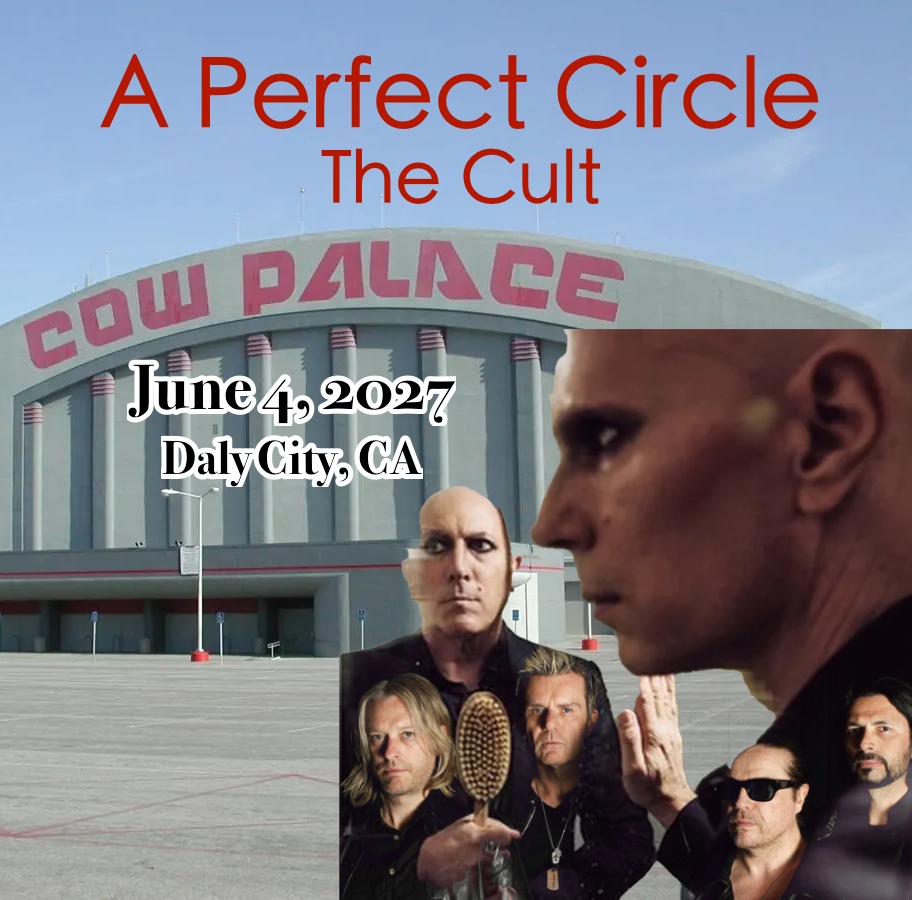
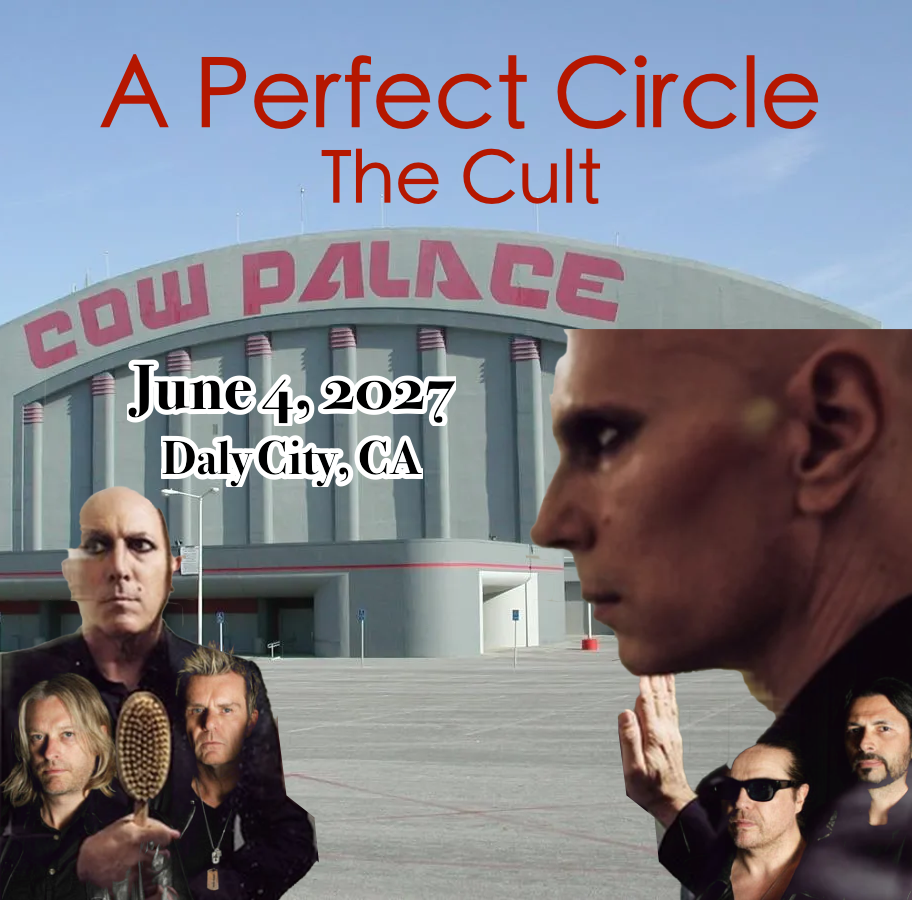
fix bug for artists on multiple cards not filtering

Changed region(s): [[0.0, 0.5289, 0.7368, 1.0]]

diff --git a/sandbox/setlists/styles/index.css b/sandbox/setlists/styles/index.css
@@ -74,7 +74,7 @@ main {
   position: absolute;
   inset-block-end: 0;
   inset-inline-start: 0;
-  padding-inline-start: 16px; /* @todo: gutter variable? */
+  padding-inline-start: var(--gutter);
   line-height: 30px;
   width: 100%;
   background: rgba(0, 0, 0, 0.5);
@@ -93,28 +93,6 @@ main {
   font-family: sans-serif;
   overflow: hidden;
   transform: rotateY(180deg);
-}
-
-.card__artists {
-  display: flex;
-  flex-wrap: wrap;
-  column-gap: 16px;
-  row-gap: 32px;
-  margin: 0;
-  padding: 0;
-  list-style: none;
-
-  .card__artist {
-
-    label {
-      padding: 6px 12px;
-      border-radius: 999px;
-      background-color: rgba(128, 128, 128, 0.5);
-      border: 2px solid rgb(128, 128, 128);
-      white-space: nowrap;
-      cursor: pointer;
-    }
-  }
 }
 
 .card__toggle:checked {
@@ -160,10 +138,49 @@ main {
   pointer-events: auto;
 }
 
-.card__side--back:has(.card__artistToggle:checked) .card__setData {
-  display: none;
+.card__artists {
+  display: flex;
+  flex-wrap: wrap;
+  column-gap: var(--gutter);
+  row-gap: calc(var(--gutter) * 2);
+  margin: 0;
+  padding: 0;
+  list-style: none;
+
+  .card__artist {
+    label {
+      padding: 6px 12px;
+      border-radius: 999px;
+      background-color: var(--bg-accent);
+      border: 2px solid var(--fg-accent);
+      white-space: nowrap;
+      cursor: pointer;
+      box-sizing: border-box;
+    }
+  }
 }
 
-.card__side--back:has(.card__artistToggle:checked) .card__artistToggle:checked + .card__setData {
+.card__set {
   display: block;
+  opacity: 1;
+  transition: opacity 0.3s, display 0.3s allow-discrete;
+
+  @starting-style {
+    opacity: 0;
+  }
+
+  .card__side--back:has(.card__artistToggle:checked) & {
+    display: none;
+    opacity: 0;
+  }
+
+  .card__side--back:has(.card__artistToggle:checked) .card__artistToggle:checked + & {
+    display: block;
+    opacity: 1;
+    transition-duration: 0.75s;
+
+    @starting-style {
+      opacity: 0;
+    }
+  }
 }

diff --git a/sandbox/setlists/scripts/index.js b/sandbox/setlists/scripts/index.js
@@ -37,15 +37,15 @@ const generateCard = (setlistData, idx) => {
         <ul class="card__artists">
           ${setlistData.sets.map(({ artist }) => (
             `<li class="card__artist">
-              <label for="input-${artist.replace(/ /g, "")}">
+              <label for="card-${idx}--input-${artist.replace(/ /g, "")}">
                 ${artist}
               </label>
             </li>`
           )).join("")}
         </ul>
         ${setlistData.sets.map((set) => (
-          `<input class="card__artistToggle" id="input-${set.artist.replace(/ /g, "")}" type="checkbox" name="artist" value="${set.artist.replace(/ /g, "")}" hidden>
-          <div class="card__setData">
+          `<input class="card__artistToggle" id="card-${idx}--input-${set.artist.replace(/ /g, "")}" type="checkbox" name="artist" hidden>
+          <div class="card__set">
             <h2 class="card__artist">${set.artist}</h2>
             <ol class="card__setlist">
               ${set.songs.map((song) => (

diff --git a/sandbox/setlists/styles/variables.css b/sandbox/setlists/styles/variables.css
@@ -1,16 +1,33 @@
 :root {
-  --bg-primary: #f8f0ff;
-  --fg-primary: #08000f;
-  --xx-primary: #8800ff;
+  --white: #f8f0ff;
+  --black: #08000f;
+  --grey: #88808f;
+  --purple: #8800ff;
+
+  --white-alpha-0dot5: #f8f0ff80;
+  --black-alpha-0dot5: #08000f80;
+  --grey-alpha-0dot5: #88808f80;
+  --purple-alpha-0dot5: #8800ff80;
+
+  --bg-primary: var(--white);
+  --fg-primary: var(--black);
+  --bg-accent: var(--purple-alpha-0dot5);
+  --fg-accent: var(--purple);
 
   --card-inset: 60px;
   --card-padding: 24px;
   --num-cols: 3;
   --num-rows: 3.5;
+  --gutter: 16px;
 
   --card-front-font: 16px/36px sans-serif;
 
   --anim-speed: 1s;
 
   --scrollbar-offset: 0px;
+
+  @media (prefers-color-scheme: dark) {
+    --bg-primary: var(--black);
+    --fg-primary: var(--white);
+  }
 }
